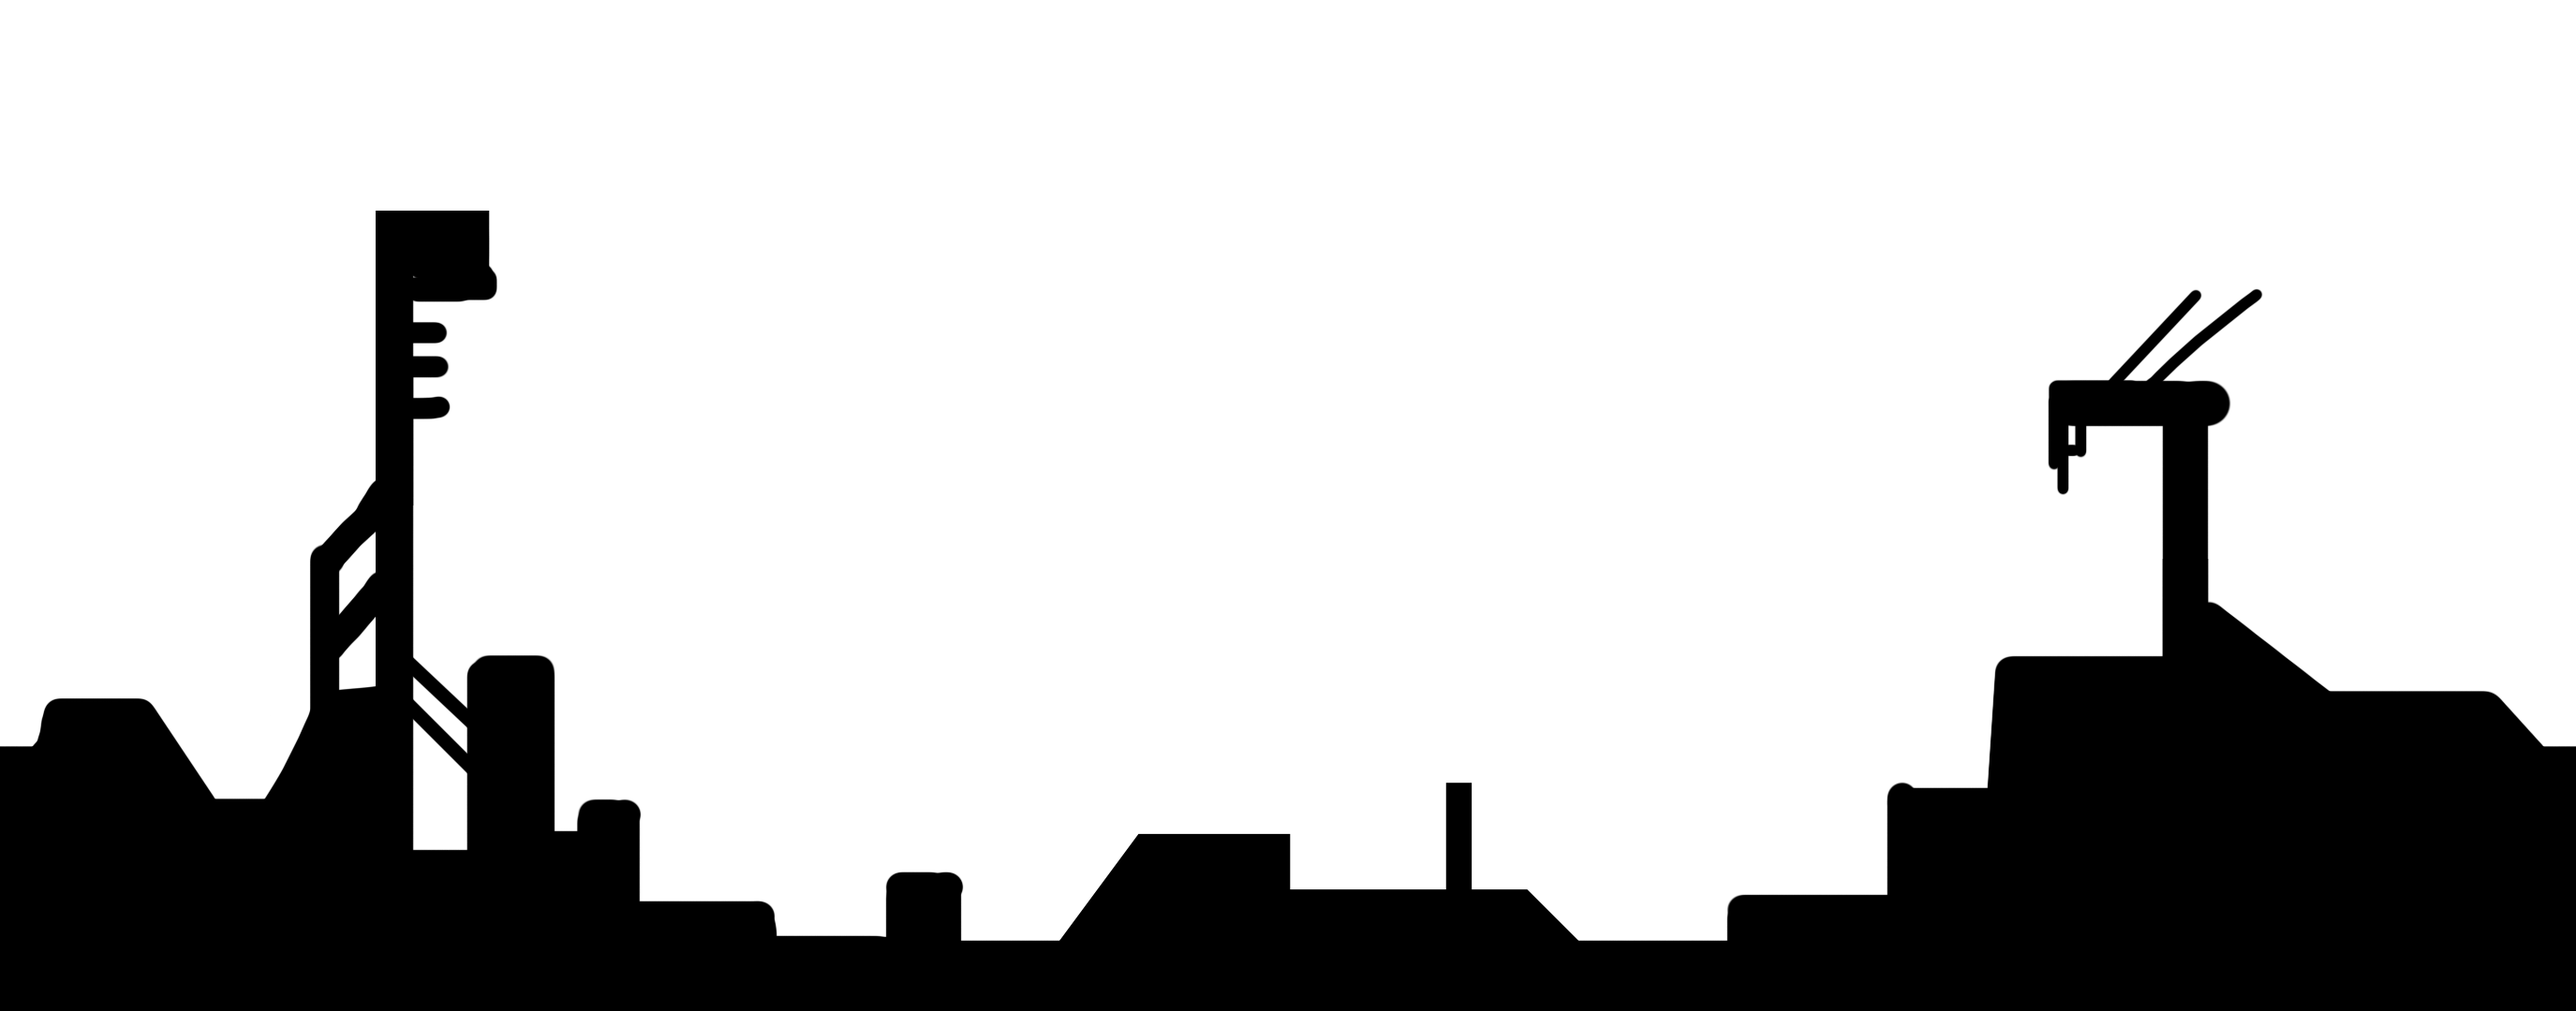
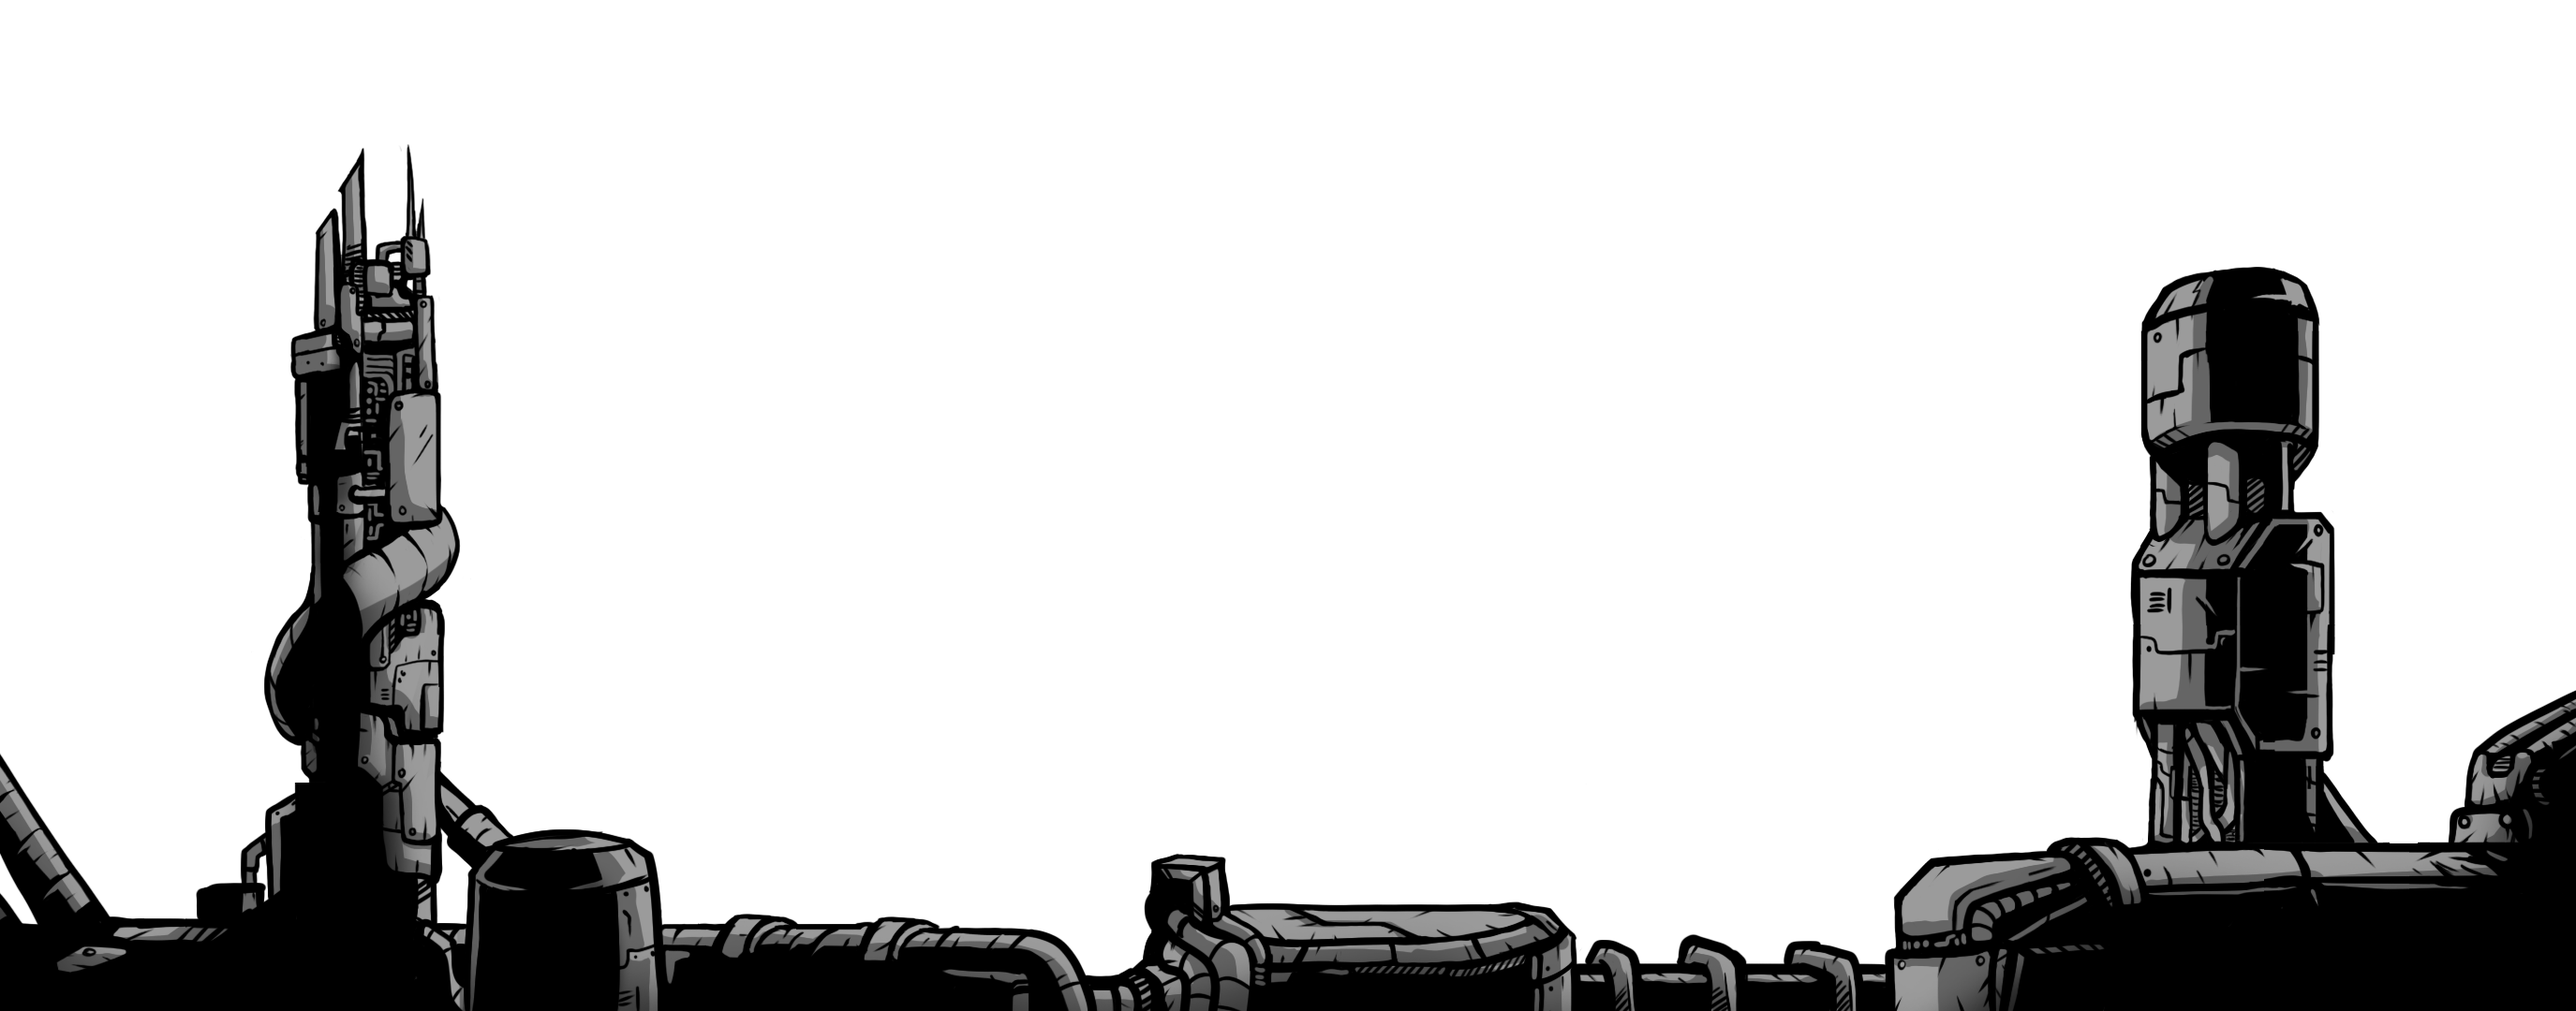
drawn version
added the header actual images

Changed region(s): [[0.0, 0.1528, 1.0, 1.0], [0.0, 0.9472, 0.0309, 0.9778]]

diff --git a/index.html b/index.html
@@ -371,23 +371,23 @@
       <section id="section-species" class="section-full">
          <div class="species-grid">
             <div class="species-panel">
-               <img src="img/species01.png" alt="Species 01" />
-               <span class="species-label">Species 01</span>
+               <img src="img/species01.png" alt="Metahumans" />
+               <span class="species-label">Metahumans</span>
             </div>
 
             <div class="species-panel">
-               <img src="img/species02.png" alt="Species 02" />
-               <span class="species-label">Species 02</span>
+               <img src="img/species02.png" alt="Synthrals" />
+               <span class="species-label">Synthrals</span>
             </div>
 
             <div class="species-panel">
-               <img src="img/species03.png" alt="Species 03" />
-               <span class="species-label">Species 03</span>
+               <img src="img/species03.png" alt="Sarkesh" />
+               <span class="species-label">Sarkesh</span>
             </div>
 
             <div class="species-panel">
-               <img src="img/species04.png" alt="Species 04" />
-               <span class="species-label">Species 04</span>
+               <img src="img/species04.png" alt="Entari" />
+               <span class="species-label">Entari</span>
             </div>
          </div>
       </section>
@@ -407,8 +407,9 @@
 
                <div class="col-lg-5 video-text">
                   <h2>About the Game</h2>
-                  <p>Lorem ipsum dolor sit amet, consectetur adipiscing elit. Pellentesque euismod felis in lectus fermentum, id ultrices arcu accumsan. Sed ac velit nunc. Proin tincidunt erat at arcu laoreet, et mollis orci volutpat.</p>
-                  <p>Quisque vehicula dui a nunc convallis, vel blandit lorem gravida. Integer convallis ipsum ut lorem bibendum, at dictum odio condimentum. Vivamus pretium, libero sit amet sollicitudin ultrices, felis orci pellentesque lorem.</p>
+                  <p>The HYPERCOMPLEX is all-encompassing. It stretches perpetually in all directions. An ever changing, chaotic amalgam of endless buildings, roads, pipes and mechanisms with no clear purpose.</p>
+                  <p>Inside of its never-ending corridors and colossal halls, new iterations of humanity now survive in small settlements scattered across unfathomable distances fighting for what little resources are available against countless, nameless dangers.</p>
+                  <p>The only masters of this realm are the god-like artificial intelligences that created it. The denizens of the Hypercomplex worship them, but the only law of the gods is their eternal unscrutable silence.</p>
                </div>
             </div>
          </div>
